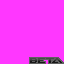
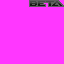
Edit and Enable Version Number

Changed region(s): [[0.4375, 0.875, 1.0, 1.0], [0.4375, 0.0, 1.0, 0.125]]

diff --git a/src/title_screen.c b/src/title_screen.c
@@ -39,8 +39,8 @@ enum {
 #define START_BANNER_Y 113
 #define START_COPYRIGHT_X 128
 #define START_COPYRIGHT_Y 148
-#define IKIGAI_VERSION_NUMBER_X 203
-#define IKIGAI_VERSION_NUMBER_Y 69
+#define IKIGAI_VERSION_NUMBER_X 205
+#define IKIGAI_VERSION_NUMBER_Y 34
 
 #define CLEAR_SAVE_BUTTON_COMBO (B_BUTTON | SELECT_BUTTON | DPAD_UP)
 #define RESET_RTC_BUTTON_COMBO (B_BUTTON | SELECT_BUTTON | DPAD_LEFT)
@@ -87,7 +87,8 @@ static const u32 sTitleScreenLogoShineGfx[] = INCBIN_U32("graphics/title_screen/
 #else
     static const u32 sTitleScreenLogoIkigaiVersionNumber[] = INCBIN_U32("graphics/title_screen/ikigai_version_number_blank.4bpp.lz");
 #endif
-static const u32 sTitleScreenLogoIkigaiVersionNumberPal[] = INCBIN_U32("graphics/title_screen/ikigai_version_number.gbapal.lz");
+static const u32 sTitleScreenLogoIkigaiVersionNumberPal_Blue[] = INCBIN_U32("graphics/title_screen/ikigai_version_number_blue.gbapal.lz");
+static const u32 sTitleScreenLogoIkigaiVersionNumberPal_Pink[] = INCBIN_U32("graphics/title_screen/ikigai_version_number_pink.gbapal.lz");
 
 
 
@@ -374,10 +375,19 @@ static const struct CompressedSpriteSheet sSpriteSheet_IkigaiVersionNumber[] =
     {},
 };
 
-static const struct CompressedSpritePalette sSpritePalette_IkigaiVersionNumber[] =
+static const struct CompressedSpritePalette sSpritePalette_IkigaiVersionNumber_Blue[] =
 {
     {
-        .data = sTitleScreenLogoIkigaiVersionNumberPal,
+        .data = sTitleScreenLogoIkigaiVersionNumberPal_Blue,
+        .tag = TAG_IKIGAI_VERSION
+    },
+    {},
+};
+
+static const struct CompressedSpritePalette sSpritePalette_IkigaiVersionNumber_Pink[] =
+{
+    {
+        .data = sTitleScreenLogoIkigaiVersionNumberPal_Pink,
         .tag = TAG_IKIGAI_VERSION
     },
     {},
@@ -754,7 +764,18 @@ void CB2_InitTitleScreen(void)
         LoadPalette(gTitleScreenIkigaiVersionStonePal, OBJ_PLTT_ID(0), PLTT_SIZE_4BPP);
         LoadSpritePalette(&sSpritePalette_PressStart[0]);
         LoadCompressedSpriteSheet(sSpriteSheet_IkigaiVersionNumber);
-        LoadCompressedSpritePalette(sSpritePalette_IkigaiVersionNumber);
+        switch (gIkigaiLegendaryScreen)
+        {
+        case IKIGAI_INTERFACE_GREEN:
+        case IKIGAI_INTERFACE_BLUE:
+            LoadCompressedSpritePalette(sSpritePalette_IkigaiVersionNumber_Pink);
+            break;
+        
+        case IKIGAI_INTERFACE_ORANGE:
+        case IKIGAI_INTERFACE_PINK:
+            LoadCompressedSpritePalette(sSpritePalette_IkigaiVersionNumber_Blue);
+            break;
+        }
         gMain.state = 2;
         break;
     case 2:

diff --git a/include/config/general.h b/include/config/general.h
@@ -82,7 +82,7 @@
 #define SKIP_INTRO_AFTER_COPYRIGHT   TRUE    // If TRUE, a the intro cutscene will be skipped.
 #define TITLE_SCREEN_FLASH           TRUE    // If TRUE, the background will flash a colour when the Pokémon Logo appears in the opening screen.
 #define TITLE_SCREEN_FLASH_COLOR     RGB_IKIGAI_BLUE    // See rgb.h for colors and color creation funtion.
-#define TITLE_SCREEN_VERSION_NUMBER  FALSE   // If TRUE, shows the game version number on the title screen.
+#define TITLE_SCREEN_VERSION_NUMBER  TRUE   // If TRUE, shows the game version number on the title screen.
 
 // Textboxes
 #define MESSAGE_BOX_WHITESPACE       TRUE   // If TRUE, removes the colored bar inside the message boxes.
